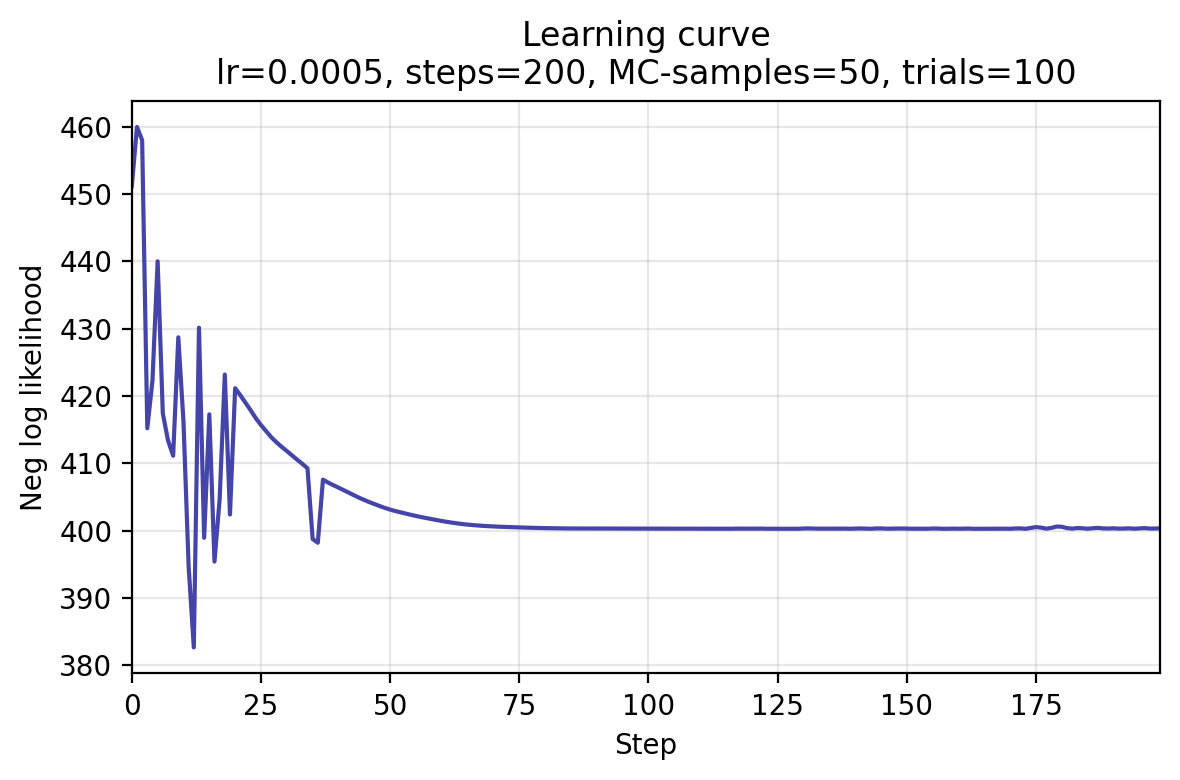
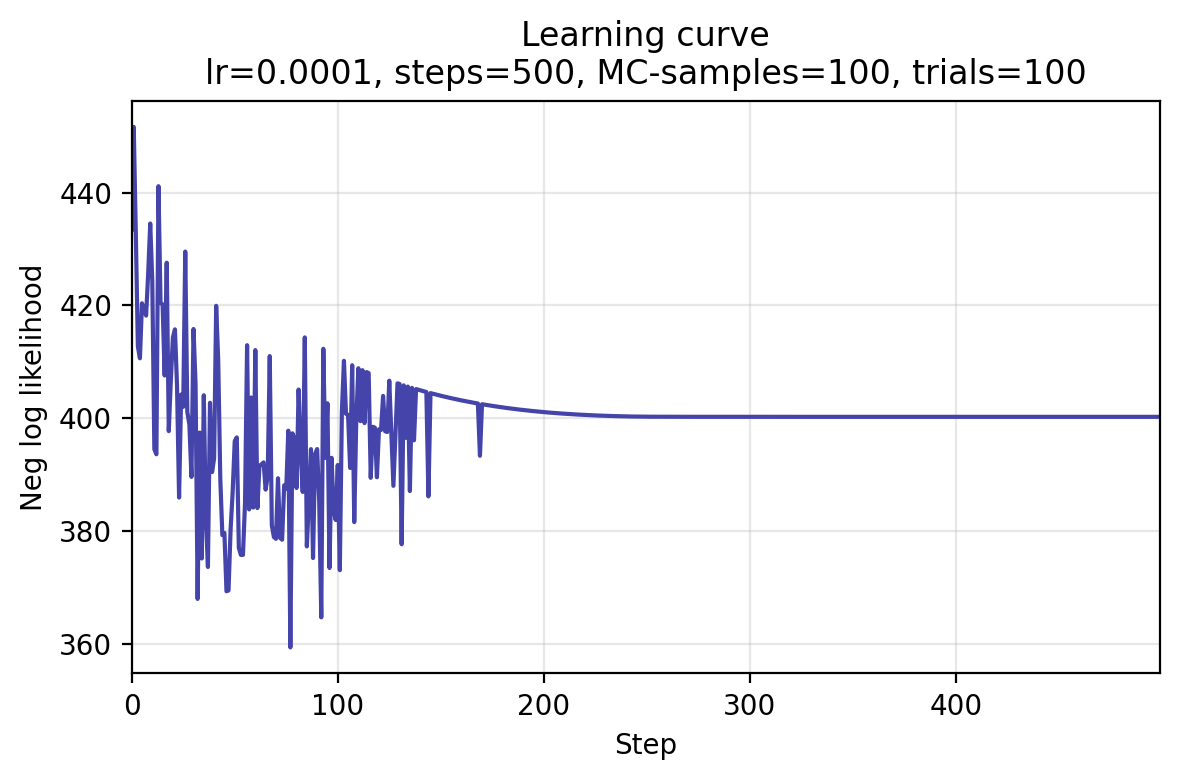
quick start ellipses plot ok now

diff --git a/docs/examples/wppm/quick_start.py b/docs/examples/wppm/quick_start.py
@@ -87,11 +87,11 @@ def _ellipse_segments_from_covs(
 # ---------------------------------------------------------------------------
 
 # --8<-- [start:compute_settings]
-MC_SAMPLES = 50  # MC samples per trial in the likelihood (full example: 500)
+MC_SAMPLES = 100  # MC samples per trial in the likelihood (full example: 500)
 NUM_TRIALS = 100  # total simulated trials (full example: 4000 × 25)
-NUM_STEPS = 200  # optimizer steps (full example: 2000)
+NUM_STEPS = 500  # optimizer steps (full example: 2000)
 
-learning_rate = 5e-4  # full example: 5e-5. The smaller the lr, the more steps
+learning_rate = 1e-4  # full example: 5e-5. The smaller the lr, the more steps
 # are required.
 # --8<-- [end:compute_settings]
 
@@ -232,7 +232,7 @@ map_cov_field = WPPMCovarianceField(model, map_estimate.params)
 print("[4/5] Plotting covariance ellipses ...")
 
 # --8<-- [start:plot_ellipses]
-_PLOT_JITTER = 0.0
+_PLOT_JITTER = 1e-9  # small regularisation so near-zero covariances pass the PD check
 
 
 # --8<-- [start:cov_fields]
@@ -244,9 +244,6 @@ covs_map = map_cov_field(ref_point)  # (N, 2, 2)
 # --8<-- [end:cov_fields]
 
 # Scale ellipses so they are visually readable.
-gt_scale = float(jnp.sqrt(jnp.mean(jnp.linalg.eigvalsh(covs_truth[0]))))
-ellipse_scale = max(0.3, 0.4 * gt_scale / 0.01)  # keep readable on the unit square
-
 fig, ax = plt.subplots(figsize=(6, 6))
 
 labels = ["Ground Truth", "Prior Sample (init)", "Fitted (MAP)"]
@@ -256,6 +253,10 @@ non_pd_counts = []
 
 for field, color, label in zip(fields, colors, labels):
     covs = field(ref_point)
+    # Scale each ellipse independently so all three are visible regardless of
+    # convergence; mean semi-axis maps to ~0.25 plot units.
+    field_scale = float(jnp.sqrt(jnp.mean(jnp.linalg.eigvalsh(covs[0]))))
+    ellipse_scale = 0.25 / max(field_scale, 1e-8)
     segments, valid = _ellipse_segments_from_covs(
         ref_point,
         covs,

diff --git a/src/psyphy/model/likelihood.py b/src/psyphy/model/likelihood.py
@@ -148,6 +148,10 @@ class TaskLikelihood(ABC):
         refs = stimuli[:, 0, :]
         comparisons = stimuli[:, 1, :]
         responses = jnp.asarray(data.responses)
+        # TrialData stores responses as (N, R); binary tasks use only channel 0.
+        # Squeeze to (N,) so the jnp.where broadcast below stays (N,) not (N, N).
+        if responses.ndim == 2:
+            responses = responses[:, 0]
         responses = responses.astype(int)
         n_trials = int(refs.shape[0])
 